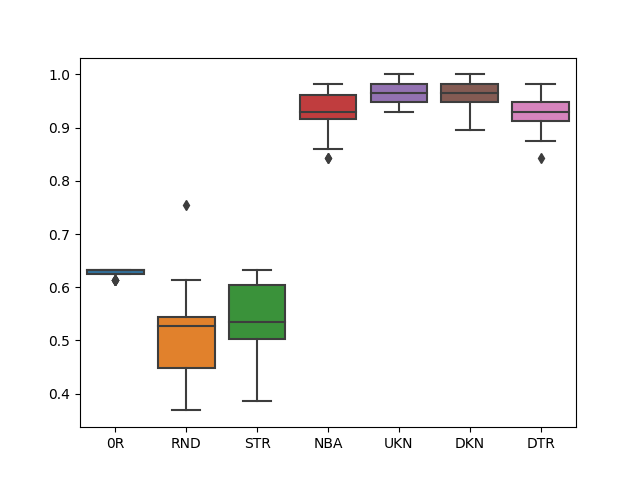
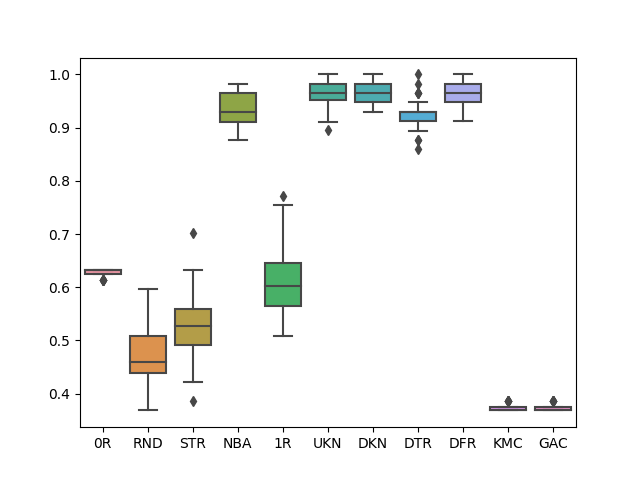
Fixing One-R and kCentroids

diff --git a/oner.py b/oner.py
@@ -9,10 +9,8 @@ class OneRClassifier(BaseEstimator):
     # Training the One Rule estimator:
     def fit(self, X, Y):
         dimensions = np.shape(X[0])
-        unique = np.unique(Y)
-        self._num_classes = len(unique)
-
-        print(dimensions)
+        unique_classes = np.unique(Y)
+        self._num_classes = len(unique_classes)
 
         # Creating the contingency table:
         contingency_tables = []
@@ -28,16 +26,25 @@ class OneRClassifier(BaseEstimator):
                 # Get classes in those indices:
                 classes = np.take(Y, indices)
                 # Calculate amount of elements in each class:
-                _, contingency_list = np.unique(classes, return_counts=True)
+                contingency_list = []
+                detected_classes, classes_count = np.unique(classes, return_counts=True)
+                j = 0
+                for i in range(self._num_classes):
+                    c = unique_classes[i]
+                    if c in detected_classes:
+                        contingency_list.append(classes_count[j])
+                        j += 1
+                    else:
+                        contingency_list.append(0)
                 contingency_table[possible_value] = contingency_list
             contingency_tables.append(contingency_table)
 
         self._best_parameter = -1 # Will hold the value of the best parameter to be used in the predictions
-        best_sum = 0
+        best_sum = 0 # Will hold the value of the sums of possible occurrences of the best parameter
         # For each contingency table:
         for i in range(len(contingency_tables)):
             # Get the sum of each class occurance for each parameter value:
-            sum_in_paramenter = np.sum(np.apply_along_axis(lambda x: np.amax(x), 1, contingency_tables[i]))
+            sum_in_paramenter = np.sum(np.apply_along_axis(lambda x: np.amax(x), 1, list(contingency_tables[i].values())))
             # Choosing the best parameter:
             if sum_in_paramenter > best_sum:
                 best_sum = sum_in_paramenter
@@ -45,14 +52,19 @@ class OneRClassifier(BaseEstimator):
 
         # Calculating the probabilties for each value:
         self._probability_table = dict({})
-        self._possible_values = np.unique(X[:(self._best_parameter)])
+        self._possible_values = np.unique(X[:,self._best_parameter])
         for possible_value in self._possible_values:
-            self._probability_table[possible_value] = np.apply_along_axis(lambda x: x / best_sum, 0, contingency_tables[self._best_parameter][possible_value])
+            total_items = np.sum(contingency_tables[self._best_parameter][possible_value])
+            self._probability_table[possible_value] = np.apply_along_axis(lambda x: x / total_items, 0, contingency_tables[self._best_parameter][possible_value])
+
 
     def predict_value(self, x):
-        for possible_value in self._possible_values:
-            if x == possible_value:
-                return np.random.choice(np.array(range(self._num_classes)), p = self._probability_table[possible_value])
+        for p in self._possible_values:
+            if x == p:
+                return np.random.choice(np.array(range(self._num_classes)), p = self._probability_table[p])
 
     def predict(self, X):
-        return np.apply_along_axis(self.predict_value, self._best_parameter, X)
+        Y = []
+        for x in X[:,self._best_parameter]:
+            Y.append(self.predict_value(x))
+        return Y

diff --git a/main.py b/main.py
@@ -33,7 +33,7 @@ stratified = DummyClassifier(strategy = 'stratified')
 naive_bayes = GaussianNB()
 one_r = OneRClassifier()
 
-first_estimators = {'0R': zero_r, 'RND': rnd, 'STR': stratified, 'NBA': naive_bayes}
+first_estimators = {'0R': zero_r, 'RND': rnd, 'STR': stratified, 'NBA': naive_bayes, '1R': one_r}
 
 # Scores dictionary:
 scores = {'Iris': dict({}), 'Wine': dict({}), 'Breast Cancer': dict({}), 'Digits': dict({})}
@@ -63,7 +63,8 @@ forest = (RandomForestClassifier(), {'estimator__n_estimators': [10, 20, 50, 100
 kmeans = (KMeansClassifier(), {'estimator__k': [1, 3, 5, 7]})
 genetic = (GeneticClassifier(), {'estimator__k': [1, 3, 5, 7]})
 
-second_estimators = {'UKN': knn, 'DKN': dist_knn, 'DTR': decision}
+#second_estimators = {'UKN': knn, 'DKN': dist_knn, 'DTR': decision, 'DFR': forest}
+second_estimators = {'UKN': knn, 'DKN': dist_knn, 'DTR': decision, 'DFR': forest, 'KMC': kmeans, 'GAC': genetic}
 
 for estimator_name, estimator_data in second_estimators.items():
     estimator = estimator_data[0]

diff --git a/kcentroids.py b/kcentroids.py
@@ -20,7 +20,7 @@ class KCentroidsBaseEstimator(BaseEstimator):
         points_by_classes = dict({})
         for c in self.__classes:
             indices = np.where(Y == c)
-            points_by_classes[c] = np.take(X, indices)
+            points_by_classes[c] = np.take(X, indices[0], axis=0)
 
         # Applying the clustering algorithm for each points list and saving the centroids list:
         self.__centroids = dict({})
